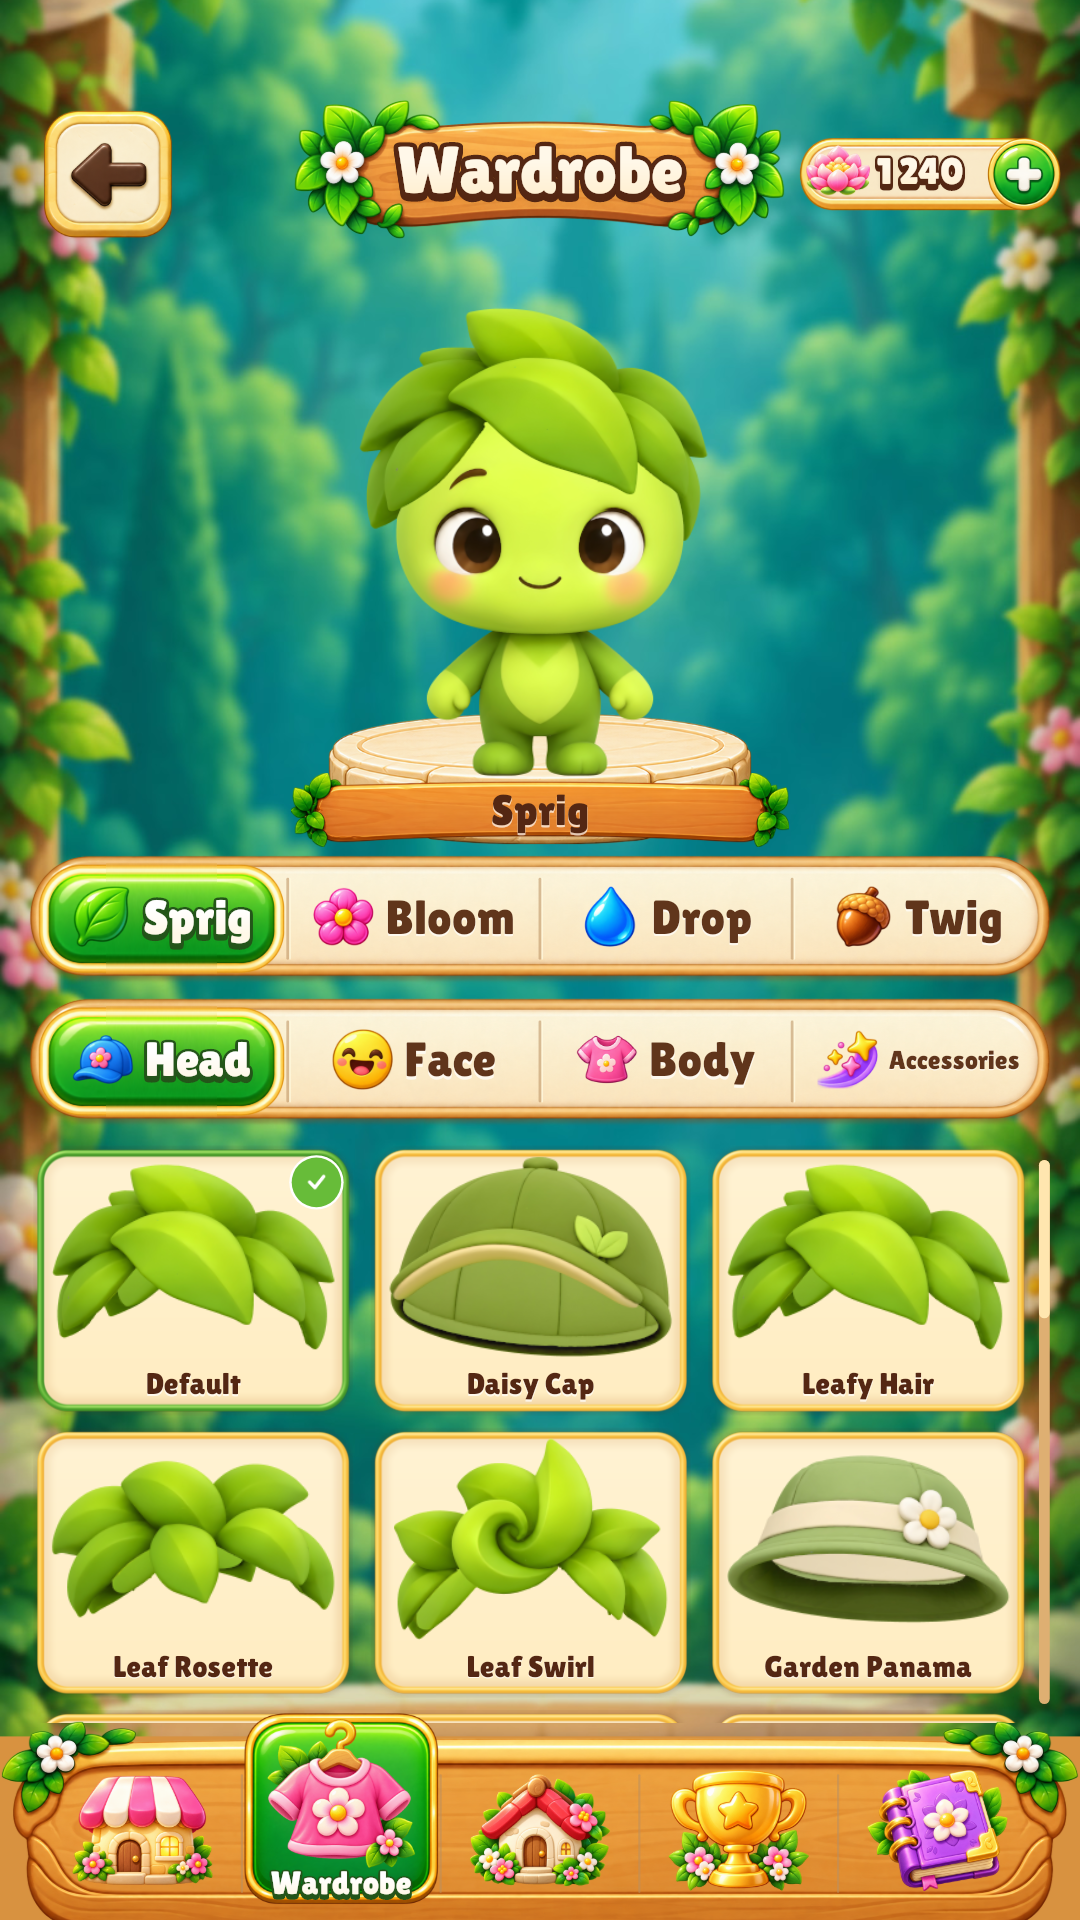
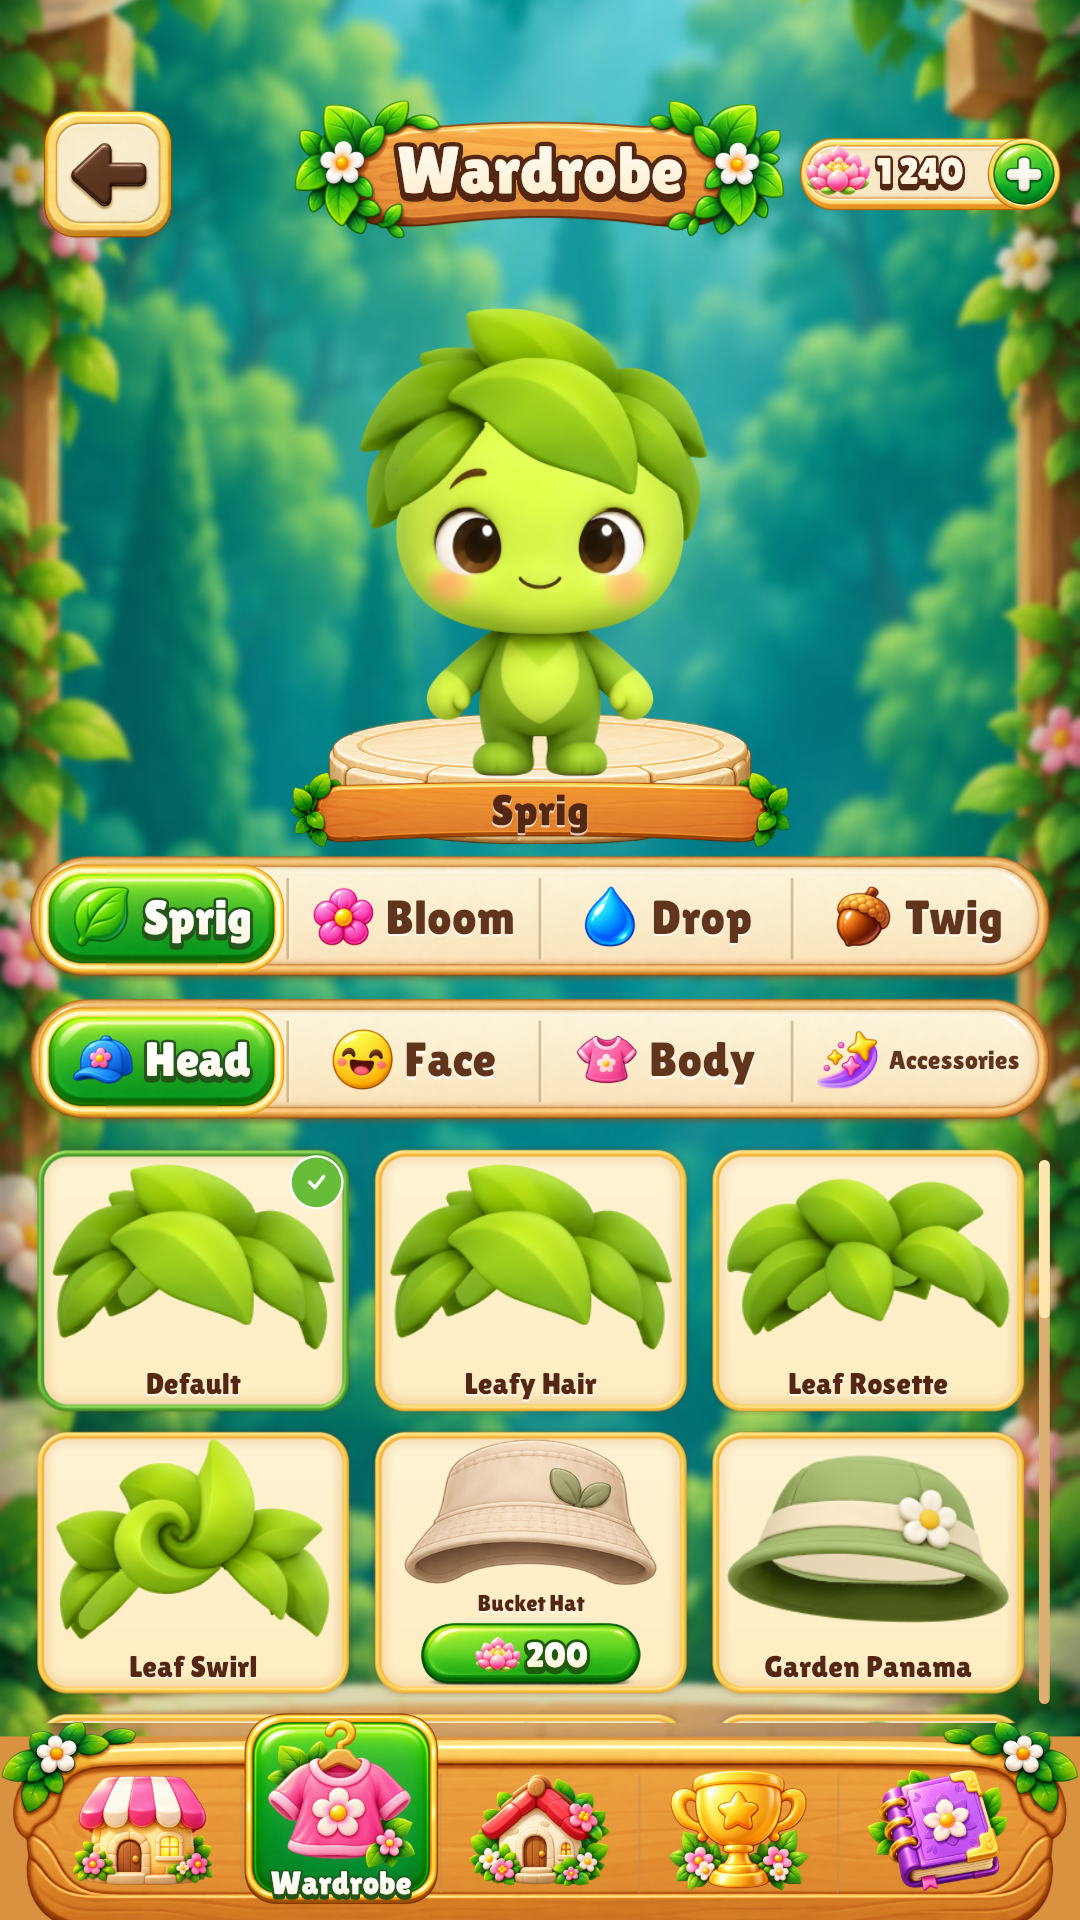
Group wardrobe items by class and seasonal collection

diff --git a/client/Assets/Bloomlings/Tests/EditMode/WardrobeCollectionThemeTests.cs b/client/Assets/Bloomlings/Tests/EditMode/WardrobeCollectionThemeTests.cs
@@ -11,6 +11,7 @@ using Bloomlings.Client.Services.Config;
 using Bloomlings.Client.Services.Content;
 using Bloomlings.Client.Services.Economy;
 using Bloomlings.Client.Services.Save;
+using Bloomlings.Client.UI.Design;
 using Bloomlings.Content.Json;
 using Bloomlings.Content.Packs;
 using Bloomlings.Core.Definitions;
@@ -27,6 +28,46 @@ namespace Bloomlings.Client.Tests
         private static string CatalogPath => Path.Combine(Application.dataPath, "Bloomlings", "Meta", "Wardrobe", "Resources", "CosmeticCatalog.json");
 
         private static CosmeticCatalog Catalog => CosmeticCatalog.Parse(File.ReadAllText(CatalogPath));
+
+        [Test]
+        public void Wardrobe_GroupsEveryHerosHairBeforeHats_ThenWinterAndNewYear()
+        {
+            var save=PlayerSave.CreateNew("sorting",DateTime.UtcNow);save.Unlocks.Flags[WardrobeService.UnlockId]=true;
+            var config=new BundledRemoteConfigService();var economy=new EconomyService(save,EconomyConfig.From(config),()=>{});
+            save.Wallet.AddPetals(20000);
+            var wardrobe=new WardrobeService(save,Catalog,config,()=>{},economy);
+            var expected=new Dictionary<Family,string[]>
+            {
+                [Family.Sprig]=new[]{SprigV2Art.LeafyId,SprigV2Art.RosetteId,SprigV2Art.SwirlId,SprigV2Art.BucketId,SprigV2Art.CapId,SprigV2Art.BeretId,SprigV2Art.EarmuffsId,SprigV2Art.XmasId},
+                [Family.Twig]=new[]{TwigV2Art.HairId,TwigV2Art.BucketId,TwigV2Art.BeretId,TwigV2Art.AcornId,TwigV2Art.HatHairId,TwigV2Art.EarmuffsId,TwigV2Art.XmasId},
+                [Family.Bloom]=new[]{BloomV2Art.PetalsId,BloomV2Art.BobId,BloomV2Art.PeachId,BloomV2Art.RoseId,BloomV2Art.BucketId,BloomV2Art.CapId,BloomV2Art.BeretId,BloomV2Art.EarmuffsId,BloomV2Art.XmasId},
+                [Family.Drop]=new[]{DropV2Art.NativeId,DropV2Art.WaveId,DropV2Art.RipplesId,DropV2Art.WhirlpoolId,DropV2Art.BucketId,DropV2Art.CapId,DropV2Art.BeretId,DropV2Art.EarmuffsId,DropV2Art.XmasId},
+            };
+            foreach(var pair in expected)
+            {
+                var rows=WardrobeShelfCatalog.Build(wardrobe,CosmeticKind.Hat,pair.Key);
+                Assert.That(rows[0].Item,Is.Null,"Default stays first");
+                Assert.That(rows.Where(c=>c.Item?.ForFamily==pair.Key).Select(c=>c.Item!.Id),Is.EqualTo(pair.Value),pair.Key.ToString());
+                Assert.That(rows.Where(c=>c.Item!=null).All(c=>!string.IsNullOrEmpty(c.Item!.WardrobeClass)),Is.True,"every visible item has a class");
+                var before=rows.Select(c=>c.Item?.Id).ToArray();
+                var paid=rows.FirstOrDefault(c=>c.State==WardrobeItemState.ForSale)?.Item;
+                if(paid!=null){Assert.That(wardrobe.TryBuy(paid.Id),Is.True);wardrobe.Equip(pair.Key,paid.Id);}
+                Assert.That(WardrobeShelfCatalog.Build(wardrobe,CosmeticKind.Hat,pair.Key).Select(c=>c.Item?.Id),Is.EqualTo(before),"buying and equipping do not move items");
+                var body=WardrobeShelfCatalog.Build(wardrobe,CosmeticKind.Clothes,pair.Key).Where(c=>c.Item!=null).Select(c=>c.Item!.Shape);
+                Assert.That(body,Is.EqualTo(new[]{"overalls","coat","jacket"}),"everyday, autumn, winter");
+            }
+        }
+        [Test]
+        public void WardrobeClassification_IsOptional_AndFutureEventsStayGroupedAndVisible()
+        {
+            var parsed=CosmeticCatalog.Parse("{\"items\":[{\"id\":\"hat.hair\",\"kind\":\"hat\",\"name\":\"Hair\",\"shape\":\"cap\",\"tint\":\"#999999\",\"wardrobeClass\":\"hair\",\"wardrobeEvent\":\"future_event\"}]}");
+            Assert.That(parsed.Items[0].WardrobeClass,Is.EqualTo("hair"));
+            Assert.That(parsed.Items[0].WardrobeEvent,Is.EqualTo("future_event"));
+            CosmeticItem Item(string id,string? type,string? season=null)=>new CosmeticItem("hat."+id,CosmeticKind.Hat,id,"cap","#999999",false){WardrobeClass=type,WardrobeEvent=season};
+            var items=new[]{Item("zcap","cap","z_event"),Item("bcap","cap","b_event"),Item("zhair","hair","z_event"),Item("winter","earmuffs","winter"),Item("cap","cap"),Item("hair","hair"),Item("unknown",null),Item("newyear","holiday_hat","new_year")};
+            var wardrobe=new WardrobeService(PlayerSave.CreateNew("sorting",DateTime.UtcNow),new CosmeticCatalog(items),new BundledRemoteConfigService(),()=>{});
+            Assert.That(WardrobeShelfCatalog.Build(wardrobe,CosmeticKind.Hat).Skip(1).Select(c=>c.Item!.Id),Is.EqualTo(new[]{"hat.hair","hat.cap","hat.unknown","hat.winter","hat.newyear","hat.bcap","hat.zhair","hat.zcap"}));
+        }
 
         [Test]
         public void Cosmetics_PassTheReadabilityCheck()

diff --git a/client/Assets/Bloomlings/UI/Design/WardrobeShelfDesign.cs b/client/Assets/Bloomlings/UI/Design/WardrobeShelfDesign.cs
@@ -55,13 +55,21 @@ namespace Bloomlings.Client.UI.Design
         public static IReadOnlyList<WardrobeShelfItem> Build(WardrobeService wardrobe, CosmeticKind kind, Family? family = null)
         {
             var result = new List<WardrobeShelfItem> { new WardrobeShelfItem(null, WardrobeItemState.Default, null) };
-            var ordered=new List<CosmeticItem>();
-            foreach(var item in wardrobe.Catalog.Items)if(item.Free&&item.MetaOnly)ordered.Add(item);
-            foreach(var item in wardrobe.Catalog.Items)if(!(item.Free&&item.MetaOnly))ordered.Add(item);
-            foreach (CosmeticItem item in ordered)
+            var ordered=new List<(CosmeticItem Item,int Position)>();
+            foreach(var item in wardrobe.Catalog.Items)
+                if(item.Kind==kind&&HeroGearArt.CanPreview(item)&&(!family.HasValue||item.Fits(family.Value)))
+                    ordered.Add((item,ordered.Count));
+            ordered.Sort((a,b)=>
             {
-                if (item.Kind != kind) continue;
-                if (!HeroGearArt.CanPreview(item) || (family.HasValue && !item.Fits(family.Value))) continue;
+                int group=EventRank(a.Item.WardrobeEvent).CompareTo(EventRank(b.Item.WardrobeEvent));
+                if(group==0)group=StringComparer.Ordinal.Compare(a.Item.WardrobeEvent??"",b.Item.WardrobeEvent??"");
+                if(group==0)group=ClassRank(a.Item.WardrobeClass).CompareTo(ClassRank(b.Item.WardrobeClass));
+                if(group==0)group=StringComparer.Ordinal.Compare(a.Item.WardrobeClass??"",b.Item.WardrobeClass??"");
+                return group!=0?group:a.Position.CompareTo(b.Position);
+            });
+            foreach (var entry in ordered)
+            {
+                CosmeticItem item=entry.Item;
                 WardrobeItemState state = wardrobe.Owns(item) ? WardrobeItemState.Owned :
                     item.ForSale ? WardrobeItemState.ForSale : WardrobeItemState.Reward;
                 int? cadence = null;
@@ -76,6 +84,21 @@ namespace Bloomlings.Client.UI.Design
             }
             return result;
         }
+
+        // Everyday classes first; seasonal/event collections remain together after them.
+        // Unknown classes/events sort deterministically and never disappear from the catalog.
+        private static int EventRank(string? key) => key switch
+        {
+            null => 0, "" => 0, "autumn" => 10, "winter" => 20, "new_year" => 30, _ => 100,
+        };
+        private static int ClassRank(string? key) => key switch
+        {
+            "hair" => 0, "panama" => 10, "cap" => 20, "beret" => 30, "straw_hat" => 40,
+            "acorn_hat" => 50, "mushroom_hat" => 60, "crown" => 70, "nightcap" => 80,
+            "earmuffs" => 90, "holiday_hat" => 100,
+            "glasses" => 0, "overalls" => 0, "coat" => 10, "jacket" => 20,
+            "striped_scarf" => 0, "knit_scarf" => 10, _ => 1000,
+        };
 
         /// <summary>Legacy isolated-outfit helper for reference fixtures; live item cards use ItemPicture instead.</summary>
         public static Outfit ShelfPreview(CosmeticKind kind, CosmeticItem? item) => Preview(Outfit.None, kind, item);

diff --git a/client/Assets/Bloomlings/Meta/Wardrobe/CosmeticCatalog.cs b/client/Assets/Bloomlings/Meta/Wardrobe/CosmeticCatalog.cs
@@ -40,6 +40,9 @@ namespace Bloomlings.Client.Meta.Wardrobe
         /// <summary>Equipped on a hero; MetaOnly items are excluded from gameplay figures.</summary>
         public bool IsWorn => CosmeticCatalog.IsWornKind(Kind);
 
+        /// <summary>Wardrobe display classification only; neither field changes ownership or event availability.</summary>
+        public string? WardrobeClass { get; init; }
+        public string? WardrobeEvent { get; init; }
         public bool ForSale => Price > 0;
         public bool Fits(Family family) => !ForFamily.HasValue || ForFamily.Value == family;
     }
@@ -193,7 +196,7 @@ namespace Bloomlings.Client.Meta.Wardrobe
             {
                 string path = JsonDoc.Index("items", i);
                 JObject item = JsonDoc.Object(array[i], path);
-                JsonDoc.AllowOnly(item, path, "id", "kind", "name", "shape", "tint", "starter", "price", "free", "family", "metaOnly");
+                JsonDoc.AllowOnly(item, path, "id", "kind", "name", "shape", "tint", "starter", "price", "free", "family", "metaOnly", "wardrobeClass", "wardrobeEvent");
                 JToken? starter = JsonDoc.Optional(item, "starter");
                 JToken? price = JsonDoc.Optional(item, "price");
                 JToken? free = JsonDoc.Optional(item, "free");
@@ -207,7 +210,11 @@ namespace Bloomlings.Client.Meta.Wardrobe
                     price == null ? 0 : JsonDoc.Int(price, JsonDoc.Join(path, "price"), min: 1),
                     Free: free != null && JsonDoc.Bool(free, JsonDoc.Join(path, "free")),
                     ForFamily: JsonDoc.Optional(item, "family") is JToken family ? ParseFamily(JsonDoc.String(family, JsonDoc.Join(path, "family")), path) : null,
-                    MetaOnly: JsonDoc.Optional(item, "metaOnly") is JToken meta && JsonDoc.Bool(meta, JsonDoc.Join(path, "metaOnly"))));
+                    MetaOnly: JsonDoc.Optional(item, "metaOnly") is JToken meta && JsonDoc.Bool(meta, JsonDoc.Join(path, "metaOnly")))
+                {
+                    WardrobeClass = JsonDoc.Optional(item, "wardrobeClass") is JToken wardrobeClass ? JsonDoc.String(wardrobeClass, JsonDoc.Join(path, "wardrobeClass")) : null,
+                    WardrobeEvent = JsonDoc.Optional(item, "wardrobeEvent") is JToken wardrobeEvent ? JsonDoc.String(wardrobeEvent, JsonDoc.Join(path, "wardrobeEvent")) : null,
+                });
             }
 
             return new CosmeticCatalog(items);

diff --git a/product/previews/wardrobe-layout-concepts-v1/README.md b/product/previews/wardrobe-layout-concepts-v1/README.md
@@ -56,3 +56,10 @@
 Финальные рендеры общей реализации Android/Skia, не генерация картинок: [19.5:9](implemented/wardrobe-19.5x9.png), [16:9](implemented/wardrobe-16x9.png), [временная примерка и зелёные ценники](implemented/wardrobe-fitting-19.5x9.png). Эти файлы находятся вне игровых ресурсов и не увеличивают APK.
 
 Дополнительно обработка отпускания пальца в Android/Skia больше не передаёт нажатие другой кнопке: свайп с меню или фильтра на ценник не открывает покупку. Unity уже захватывает исходную кнопку через EventSystem.
+
+
+## Порядок предметов
+
+Default всегда первый. Обычные вещи сгруппированы по `wardrobeClass`: причёски → панамы → кепки → береты → соломенные и характерные шляпки → короны → ночные колпаки. Затем идут сезонные/праздничные группы `wardrobeEvent`: осень → зима → Новый год. Например, зимние ушки и новогодние шапки всех героев находятся в конце Head. Body: садовая одежда → осеннее пальто → зимняя куртка. Это порядок показа; теги не вводят новые ивенты, блокировки или цены.
+
+Класс и событие задаются явно в CosmeticCatalog.json, а не угадываются из названия или перевода. Внутри одной группы сохраняется порядок каталога; владение, цена, покупка и надевание не влияют на сортировку. Новые неизвестные классы и события остаются видимыми и группируются в конце. Существующие фильтры не меняются.
